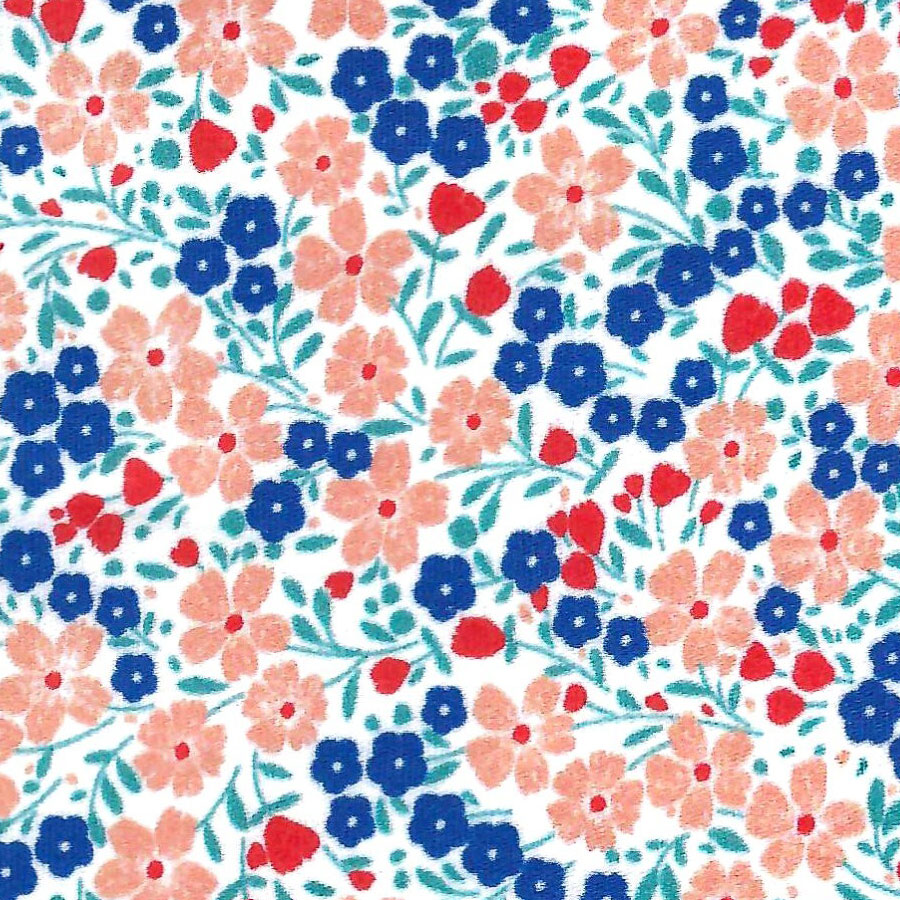
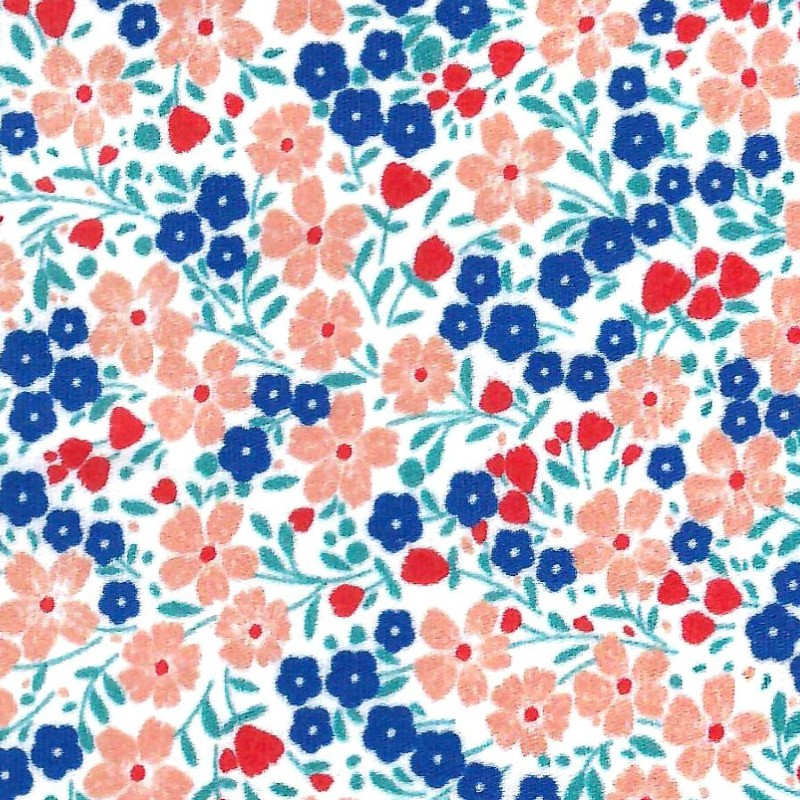
Resized images and fixed frogscoring
plus updated reademes and html

diff --git a/projects/VariationJam/FrogQuilter/js/script.js b/projects/VariationJam/FrogQuilter/js/script.js
@@ -36,9 +36,9 @@ const frog = {
 // tile values for image and scoring
 let tile = {
     image: [],
-    gVal: [.2, 0, .2, 0, 0, .3, .8, .9, 1, .5, 0, .2, .3, 0, .8],
+    gVal: [.2, 0, .2, 0, 0, .3, .8, .9, 1, .6, 0, .2, .3, 0, .8],
     rVal: [0, .4, 0, 0, 0, .4, .1, 0, 0, .6, .5, .9, 1, 1, 0],
-    bVal: [.9, .8, .9, .9, .9, .5, 0, .4, 0, 0, 0, 0, 0, 0, 0],
+    bVal: [.9, .8, .9, .9, .9, .5, 0, .5, 0, 0, 0, 0, 0, 0, 0],
     flairVal: [.6, .4, .3, .5, .4, .6, .5, .6, .9, .3, .8, .4, .2, .5, .8],
     gScore: 0,
     rScore: 0,
@@ -115,6 +115,7 @@ function draw() {
         moveTongue();
         drawFrog();
         checkTongueFlyOverlap();
+        line(0, 10, 640, 10);
         image(quilt.image, quilt.x, quilt.y);
     }
     else if (started == true) {
@@ -211,10 +212,11 @@ function buildQuilt() {
 // when the quilt is finished tabulate the scores and tell draw to show the end screen
 function quiltFinished() {
     quilt.finished = true;
-    tile.cohesion = ((tile.rScore * .8) + (tile.gScore * .8) + (tile.bScore * .8)) * 3;
+    tile.cohesion = (-100 / (((max(tile.rScore, tile.bScore, tile.gScore) - tile.rScore) - tile.bScore) - tile.gScore)) * 7;
+    console.log(tile.cohesion);
     tile.cohesion = int(tile.cohesion);
     console.log(tile.cohesion);
-    tile.flairScore = int(tile.flairScore) * 4;
+    tile.flairScore = int(tile.flairScore) * 6;
 }
 
 /**

diff --git a/projects/VariationJam/FrogQuilter/index.html b/projects/VariationJam/FrogQuilter/index.html
@@ -5,7 +5,7 @@
   <meta charset="utf-8">
   <meta name="viewport" width=device-width, initial-scale=1.0, maximum-scale=1.0, user-scalable=0>
 
-  <title>Frogfrogfrog</title>
+  <title>FrogQuilter</title>
 
   <!-- CSS stylesheet(s) -->
   <link rel="stylesheet" type="text/css" href="css/style.css" />

diff --git a/projects/VariationJam/Overflow/README.md b/projects/VariationJam/Overflow/README.md
@@ -1,24 +1,15 @@
-# TITLE OF PROJECT
+# Overflow
 
-AUTHOR NAME
+Willow Casinghino
 
-[View this project online](URL_FOR_THE_RUNNING_PROJECT)
+[View this project online](https://tyr-64.github.io/CART253/projects/VariationJam/Overflow/index.html)
 
 ## Description
 
-This description should help the reader understand what the program is, anything they should know to be able to experience it (controls, special features, etc.), and what the desired user experience is. For example:
+An artistic image manipulation program. Either your webcam or a chosen image scans into view. It becomes less recognizable the more you interact with it.
 
-> *The Mayor of Clown Town* is a simulator experience that allows the user to control a small town populated entirely by clowns.
+To use an image simply drag and drop an image file onto the canvas. Supports all letters, spacebar, enter, and some punctuation. Make sure to test the number keys!
 
-> The experience is controlled via the mouse, with left click selecting a clown and bringing up a menu of options such as "slip of banana peel" or "get into impossible capacious clown-car."
-
-> The project is meant to give the user a sense of what it would be the mayor of a town of clowns, eventually getting the sense that clowns are not taking their civic duties seriously.
-
-## Screenshot(s)
-
-This bit should have some images of the program running so that the reader has a sense of what it looks like. For example:
-
-> ![Image of a clown face](./assets/images/clown.png)
 
 ## Attribution
 
@@ -26,10 +17,7 @@ This bit should attribute any code, assets or other elements used taken from oth
 
 > - This project uses [p5.js](https://p5js.org).
 > - The clown image is a capture of the clown from the Apple emoji character set.
-> - The barking sound effect is "single dog bark 1" by crazymonke9 from freesound.org: https://freesound.org/people/crazymonke9/sounds/418107/
 
 ## License
-
-This bit should include the license you want to apply to your work. For example:
 
 > This project is licensed under a Creative Commons Attribution ([CC BY 4.0](https://creativecommons.org/licenses/by/4.0/deed.en)) license with the exception of libraries and other components with their own licenses.

diff --git a/projects/VariationJam/FrogQuilter/README.md b/projects/VariationJam/FrogQuilter/README.md
@@ -1,9 +1,5 @@
-# Frogfrogfrog
+# Frog Quilter
 
-A game about catching flies.
+A game about catching flies and making a quilt. Based on Pippin Barr's Frogfrogfrog.
 
-[Play it!](https://pippinbarr.github.io/cart253-examples/topics/making/frogfrogfrog/index.html)
-
-- [Ideas](./ideas.md)
-- [Planning](./planning.md)
-- [Pseudocode](./pseudocode.md)
+[Play it!](https://tyr-64.github.io/CART253/projects/VariationJam/FrogQuilter/index.html)
